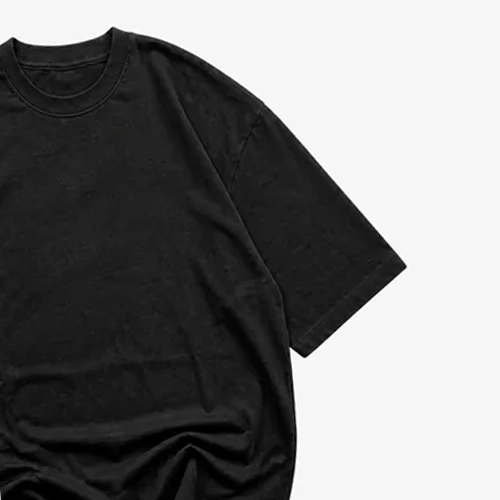
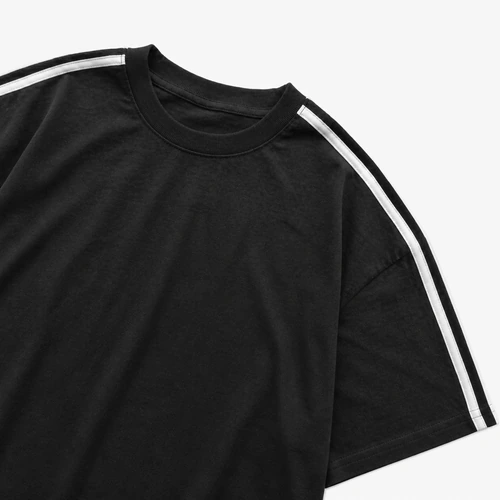
Replace catalog t-shirt artwork

diff --git a/store.html b/store.html
@@ -272,7 +272,7 @@ document.addEventListener('DOMContentLoaded',function(){
       var label=item.querySelector('p');
       if(label)label.textContent=categoryName;
       var image=item.querySelector('img');
-      if(image){image.src='catalog-icons/'+categoryImages[index]+'?v=20260717-2';image.removeAttribute('srcset');image.loading='eager';image.decoding='async';image.fetchPriority=index<4?'high':'auto';image.dataset.vnwrSrc=image.src;}
+      if(image){image.src='catalog-icons/'+categoryImages[index]+'?v=20260717-3';image.removeAttribute('srcset');image.loading='eager';image.decoding='async';image.fetchPriority=index<4?'high':'auto';image.dataset.vnwrSrc=image.src;}
       item.classList.add('store-category-select');
       var link=item.querySelector('a');
       if(link){link.removeAttribute('href');link.setAttribute('role','button');}
@@ -284,8 +284,8 @@ document.addEventListener('DOMContentLoaded',function(){
       }
     });
     var categoryControlStyle=document.createElement('style');
-    categoryControlStyle.textContent='.store-category-select{cursor:pointer}.store-category-select .ebeHRWSHP{aspect-ratio:1/1!important;background:#f6f6f6!important;border-radius:12px!important;overflow:hidden!important;padding:0!important;position:relative!important}.store-category-select .cbeHRWSHP{height:100%!important;width:100%!important}.store-category-select .ebeHRWSHP img{background:#f6f6f6!important;border-radius:12px!important;box-sizing:border-box!important;display:block!important;height:100%!important;object-fit:cover!important;object-position:center center!important;padding:0!important;width:100%!important}.store-category-select:nth-child(1) .ebeHRWSHP img{transform:scale(1)!important;transform-origin:center center!important}.store-category-select:nth-child(2) .ebeHRWSHP img,.store-category-select:nth-child(4) .ebeHRWSHP img{object-position:right bottom!important;transform-origin:right bottom!important}.store-category-select:nth-child(3) .ebeHRWSHP img{transform:translateY(4px) scale(1.14)!important;transform-origin:left bottom!important}.store-category-select:nth-child(6) .ebeHRWSHP img{transform:scale(.84)!important;transform-origin:center center!important}.store-category-select:nth-child(8) .ebeHRWSHP img{transform:scale(.90)!important;transform-origin:center center!important}.store-category-new{background:#111;border-radius:5px;bottom:7px;color:#fff;font-family:"Factor A",Arial,sans-serif;font-size:11px;font-weight:700;line-height:16px;padding:1px 5px;position:absolute;right:7px;text-transform:lowercase;z-index:2}.store-catalog-status{box-sizing:border-box;color:#6b7078;font-family:"Factor A",Arial,sans-serif;font-size:14px;line-height:20px;margin:16px 0 4px;position:relative;text-align:center;width:100%}.store-catalog-status:before{background:#e8eaed;content:"";height:1px;left:0;position:absolute;right:0;top:50%;z-index:0}.store-catalog-status span{background:#fff;padding:0 11px;position:relative;z-index:1}.store-catalog-status strong{color:#222;font-weight:500}.store-catalog-empty{color:#6b7078;font-family:"Factor A",Arial,sans-serif;font-size:16px;line-height:24px;margin:22px 0 0;text-align:center}';
-    categoryControlStyle.textContent+='.store-category-select,.store-category-select *{animation:none!important;transition:none!important}.store-category-select,.store-category-select:active,.store-category-select:hover,.store-category-select:focus,.store-category-select:focus-within,.store-category-select>a,.store-category-select>button,.store-category-select>[role="button"]{transform:none!important;-webkit-tap-highlight-color:transparent!important}.store-category-select .abeHRWSHP:hover .cbeHRWSHP{transform:none!important}.store-category-select .abeHRWSHP:hover .dbeHRWSHP{transform:scale(1)!important}.store-category-select:nth-child(3) .abeHRWSHP:hover .dbeHRWSHP{transform:translateY(4px) scale(1.14)!important}.store-category-select:nth-child(6) .abeHRWSHP:hover .dbeHRWSHP{transform:scale(.84)!important}.store-category-select:nth-child(8) .abeHRWSHP:hover .dbeHRWSHP{transform:scale(.90)!important}';
+    categoryControlStyle.textContent='.store-category-select{cursor:pointer}.store-category-select .ebeHRWSHP{aspect-ratio:1/1!important;background:#f6f6f6!important;border-radius:12px!important;overflow:hidden!important;padding:0!important;position:relative!important}.store-category-select .cbeHRWSHP{height:100%!important;width:100%!important}.store-category-select .ebeHRWSHP img{background:#f6f6f6!important;border-radius:12px!important;box-sizing:border-box!important;display:block!important;height:100%!important;object-fit:cover!important;object-position:center center!important;padding:0!important;width:100%!important}.store-category-select:nth-child(1) .ebeHRWSHP img{transform:scale(1)!important;transform-origin:center center!important}.store-category-select:nth-child(2) .ebeHRWSHP img,.store-category-select:nth-child(4) .ebeHRWSHP img{object-position:right bottom!important;transform-origin:right bottom!important}.store-category-select:nth-child(3) .ebeHRWSHP img{transform:scale(1)!important;transform-origin:left bottom!important}.store-category-select:nth-child(6) .ebeHRWSHP img{transform:scale(.84)!important;transform-origin:center center!important}.store-category-select:nth-child(8) .ebeHRWSHP img{transform:scale(.90)!important;transform-origin:center center!important}.store-category-new{background:#111;border-radius:5px;bottom:7px;color:#fff;font-family:"Factor A",Arial,sans-serif;font-size:11px;font-weight:700;line-height:16px;padding:1px 5px;position:absolute;right:7px;text-transform:lowercase;z-index:2}.store-catalog-status{box-sizing:border-box;color:#6b7078;font-family:"Factor A",Arial,sans-serif;font-size:14px;line-height:20px;margin:16px 0 4px;position:relative;text-align:center;width:100%}.store-catalog-status:before{background:#e8eaed;content:"";height:1px;left:0;position:absolute;right:0;top:50%;z-index:0}.store-catalog-status span{background:#fff;padding:0 11px;position:relative;z-index:1}.store-catalog-status strong{color:#222;font-weight:500}.store-catalog-empty{color:#6b7078;font-family:"Factor A",Arial,sans-serif;font-size:16px;line-height:24px;margin:22px 0 0;text-align:center}';
+    categoryControlStyle.textContent+='.store-category-select,.store-category-select *{animation:none!important;transition:none!important}.store-category-select,.store-category-select:active,.store-category-select:hover,.store-category-select:focus,.store-category-select:focus-within,.store-category-select>a,.store-category-select>button,.store-category-select>[role="button"]{transform:none!important;-webkit-tap-highlight-color:transparent!important}.store-category-select .abeHRWSHP:hover .cbeHRWSHP{transform:none!important}.store-category-select .abeHRWSHP:hover .dbeHRWSHP{transform:scale(1)!important}.store-category-select:nth-child(3) .abeHRWSHP:hover .dbeHRWSHP{transform:scale(1)!important}.store-category-select:nth-child(6) .abeHRWSHP:hover .dbeHRWSHP{transform:scale(.84)!important}.store-category-select:nth-child(8) .abeHRWSHP:hover .dbeHRWSHP{transform:scale(.90)!important}';
     document.head.appendChild(categoryControlStyle);
     heroSection.insertAdjacentElement('afterend',titleSection);
     titleSection.insertAdjacentElement('afterend',grid);

diff --git a/index.html b/index.html
@@ -215,7 +215,7 @@
     <a id="header-support" class="header-menu-item" href="support.html"><span>Поддержка</span><img src="galochka.webp" alt=""></a>
     <a id="header-cart" class="header-menu-item" href="cart.html"><span>Корзина</span><span class="header-menu-item__end"><span id="header-cart-count" class="header-cart-count">0</span><img src="galochka.webp" alt=""></span></a>
   </section>
-<iframe id="store" src="store.html?v=20260717-10" title="Мобильная версия магазина"></iframe>
+<iframe id="store" src="store.html?v=20260717-11" title="Мобильная версия магазина"></iframe>
   <script src="vnwr-navigation.js?v=20260717-4"></script>
   <script>
     (() => {